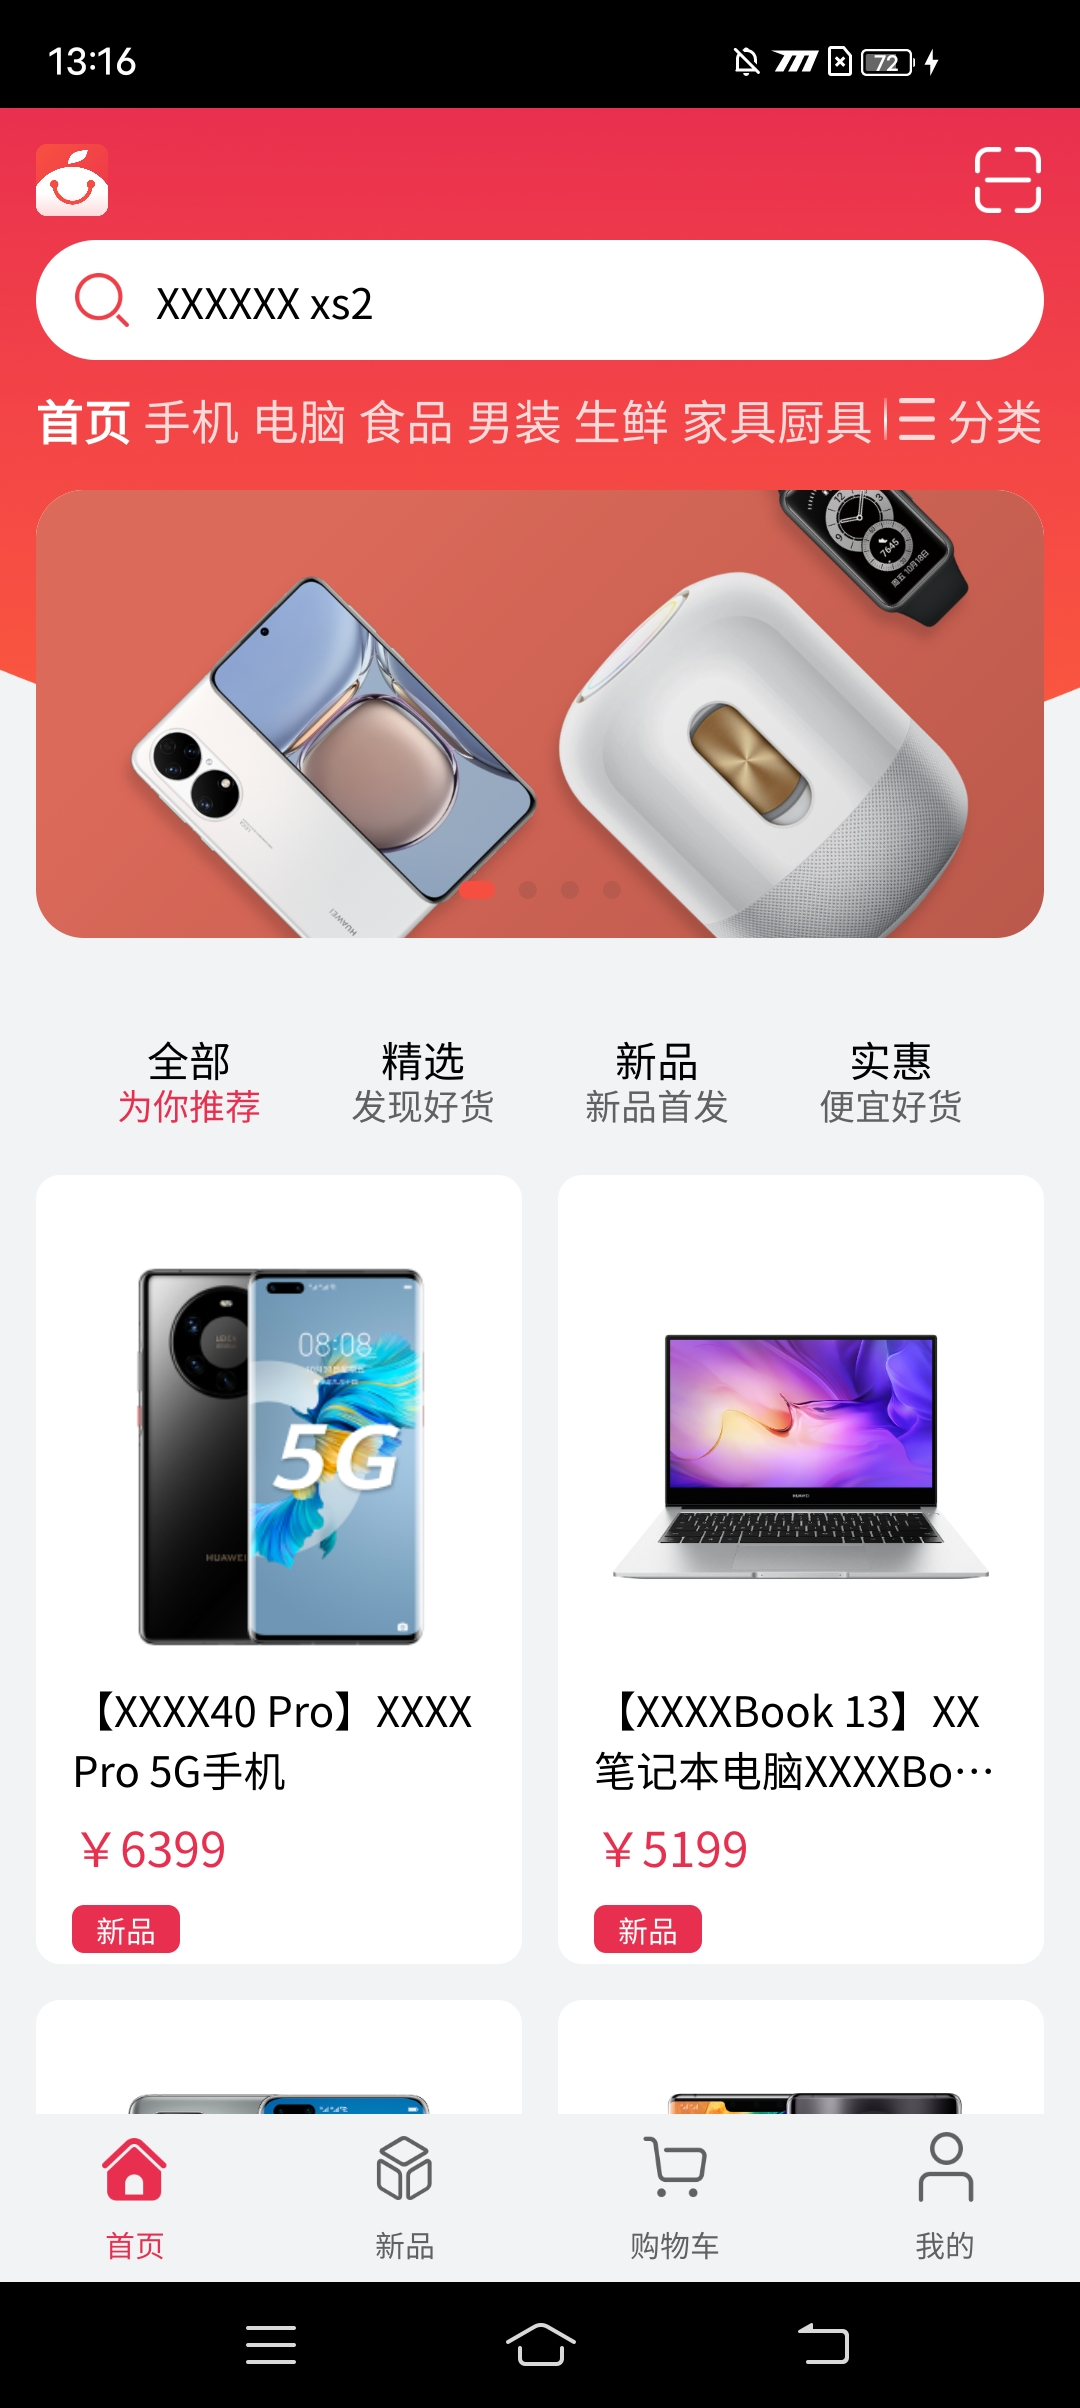
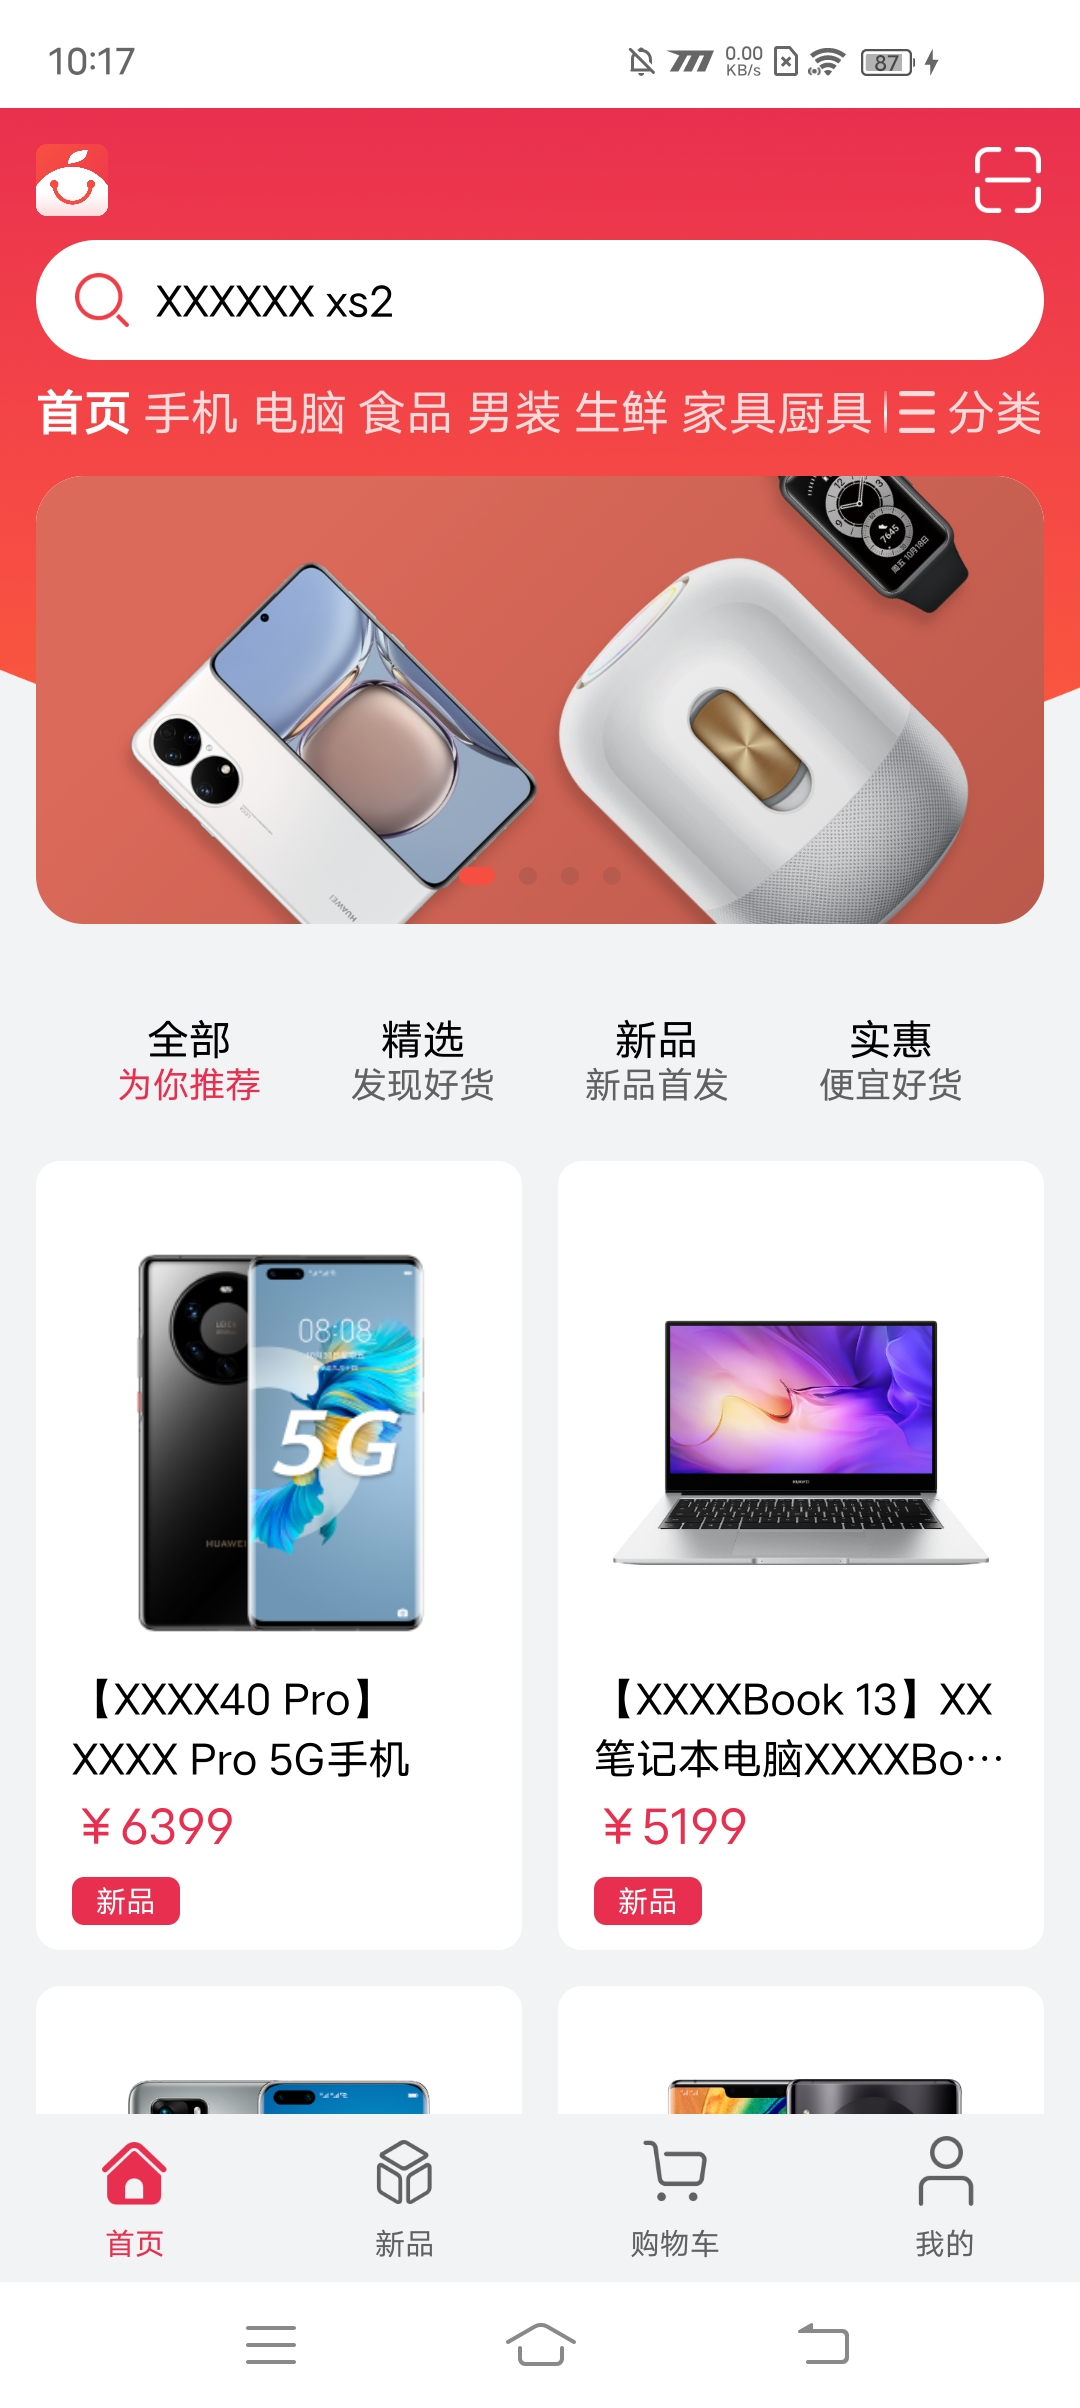
fix image

diff --git a/CodeLab/HMOSWorld/.arkui-x/android/app/src/main/java/com/huawei/hmos/world/ArkuixEntryAbilityActivity.java b/CodeLab/HMOSWorld/.arkui-x/android/app/src/main/java/com/huawei/hmos/world/ArkuixEntryAbilityActivity.java
@@ -20,6 +20,8 @@ import android.content.Context;
 import android.content.pm.PackageManager;
 import android.os.Bundle;
 import android.util.Log;
+import android.view.View;
+import android.view.Window;
 
 import androidx.core.app.ActivityCompat;
 import androidx.core.content.ContextCompat;
@@ -54,6 +56,11 @@ public class ArkuixEntryAbilityActivity extends StageActivity {
     protected void onCreate(Bundle savedInstanceState) {
         Log.i(TAG, "onCreate called");
         initBridgeObject();
+        Window window = getWindow();
+        View view = window.getDecorView();
+        int vis = view.getSystemUiVisibility();
+        vis |= View.SYSTEM_UI_FLAG_LIGHT_STATUS_BAR;
+        view.setSystemUiVisibility(vis);
         setInstanceName("com.huawei.hmos.world:arkuix:EntryAbility:");
         if (ContextCompat.checkSelfPermission(this,
                 Manifest.permission.READ_EXTERNAL_STORAGE) != PackageManager.PERMISSION_GRANTED) {

diff --git a/CodeLab/OxHornCampus/.arkui-x/android/app/src/main/java/com/example/oxhorncampus/ArkuixEntryAbilityActivity.java b/CodeLab/OxHornCampus/.arkui-x/android/app/src/main/java/com/example/oxhorncampus/ArkuixEntryAbilityActivity.java
@@ -17,6 +17,8 @@ package com.example.oxhorncampus;
 
 import android.os.Bundle;
 import android.util.Log;
+import android.view.View;
+import android.view.Window;
 
 import ohos.stage.ability.adapter.StageActivity;
 
@@ -30,7 +32,11 @@ public class ArkuixEntryAbilityActivity extends StageActivity {
     @Override
     protected void onCreate(Bundle savedInstanceState) {
         Log.e("HiHelloWorld", "ArkuixEntryAbilityActivity");
-
+        Window window = getWindow();
+        View view = window.getDecorView();
+        int vis = view.getSystemUiVisibility();
+        vis |= View.SYSTEM_UI_FLAG_LIGHT_STATUS_BAR;
+        view.setSystemUiVisibility(vis);
         setInstanceName("com.example.oxhorncampus:arkuix:EntryAbility:");
         super.onCreate(savedInstanceState);
     }

diff --git a/CodeLab/MultiShopping/.arkui-x/android/app/src/main/java/com/example/multishopping/PhoneEntryAbilityActivity.java b/CodeLab/MultiShopping/.arkui-x/android/app/src/main/java/com/example/multishopping/PhoneEntryAbilityActivity.java
@@ -17,6 +17,8 @@ package com.example.multishopping;
 
 import android.os.Bundle;
 import android.util.Log;
+import android.view.View;
+import android.view.Window;
 
 import ohos.stage.ability.adapter.StageActivity;
 
@@ -32,6 +34,11 @@ public class PhoneEntryAbilityActivity extends StageActivity {
     @Override
     protected void onCreate(Bundle savedInstanceState) {
         Log.i(LOG_TAG, "PhoneEntryAbilityActivity onCreate");
+        Window window = getWindow();
+        View view = window.getDecorView();
+        int vis = view.getSystemUiVisibility();
+        vis |= View.SYSTEM_UI_FLAG_LIGHT_STATUS_BAR;
+        view.setSystemUiVisibility(vis);
         setInstanceName("com.example.multishopping:phone:EntryAbility:");
         super.onCreate(savedInstanceState);
     }

diff --git a/CodeLab/MusicHome/.arkui-x/android/app/src/main/java/com/huawei/music/musichome/PhoneEntryAbilityActivity.java b/CodeLab/MusicHome/.arkui-x/android/app/src/main/java/com/huawei/music/musichome/PhoneEntryAbilityActivity.java
@@ -16,6 +16,8 @@
 package com.huawei.music.musichome;
 
 import android.os.Bundle;
+import android.view.View;
+import android.view.Window;
 
 import ohos.stage.ability.adapter.StageActivity;
 
@@ -28,6 +30,11 @@ import ohos.stage.ability.adapter.StageActivity;
 public class PhoneEntryAbilityActivity extends StageActivity {
     @Override
     protected void onCreate(Bundle savedInstanceState) {
+        Window window = getWindow();
+        View view = window.getDecorView();
+        int vis = view.getSystemUiVisibility();
+        vis |= View.SYSTEM_UI_FLAG_LIGHT_STATUS_BAR;
+        view.setSystemUiVisibility(vis);
         setInstanceName("com.huawei.music.musichome:phone:EntryAbility:");
         super.onCreate(savedInstanceState);
     }

diff --git a/CodeLab/HMOSWorld/.arkui-x/ios/app/AppDelegate.m b/CodeLab/HMOSWorld/.arkui-x/ios/app/AppDelegate.m
@@ -99,15 +99,7 @@
     self.window.backgroundColor = [UIColor whiteColor];
     [self.window makeKeyAndVisible];
     UINavigationController *navi = [[UINavigationController alloc]initWithRootViewController:viewController];
-    [self setNaviAppearance:navi];
+    navi.navigationBarHidden = YES;
     self.window.rootViewController = navi;
-}
-
-- (void)setNaviAppearance:(UINavigationController *)navi {
-    UINavigationBarAppearance *appearance = [UINavigationBarAppearance new];
-    [appearance configureWithOpaqueBackground];
-    appearance.backgroundColor = UIColor.whiteColor;
-    navi.navigationBar.standardAppearance = appearance;
-    navi.navigationBar.scrollEdgeAppearance = navi.navigationBar.standardAppearance;
 }
 @end

diff --git a/CodeLab/MultiShopping/.arkui-x/ios/app/PhoneEntryAbilityViewController.m b/CodeLab/MultiShopping/.arkui-x/ios/app/PhoneEntryAbilityViewController.m
@@ -33,4 +33,18 @@
     self.edgesForExtendedLayout = UIRectEdgeNone;
     self.extendedLayoutIncludesOpaqueBars = YES;
 }
+
+- (void)viewDidAppear:(BOOL)animated{
+    CGFloat statusBarHeight = 20;
+    if (@available(iOS 11.0, *)) {
+        UIEdgeInsets insets = self.view.safeAreaInsets;
+        statusBarHeight = insets.top;
+    } else {
+        if ([self respondsToSelector:@selector(topLayoutGuide)]) {
+            statusBarHeight = self.topLayoutGuide.length;
+        }
+    }
+    self.view.frame = CGRectMake(0, statusBarHeight,
+        CGRectGetWidth(self.view.frame), CGRectGetHeight(self.view.frame) - statusBarHeight);
+}
 @end

diff --git a/CodeLab/MusicHome/.arkui-x/ios/app/PhoneEntryAbilityViewController.m b/CodeLab/MusicHome/.arkui-x/ios/app/PhoneEntryAbilityViewController.m
@@ -33,4 +33,18 @@
     self.edgesForExtendedLayout = UIRectEdgeNone;
     self.extendedLayoutIncludesOpaqueBars = YES;
 }
+
+- (void)viewDidAppear:(BOOL)animated{
+    CGFloat statusBarHeight = 20;
+    if (@available(iOS 11.0, *)) {
+        UIEdgeInsets insets = self.view.safeAreaInsets;
+        statusBarHeight = insets.top;
+    } else {
+        if ([self respondsToSelector:@selector(topLayoutGuide)]) {
+            statusBarHeight = self.topLayoutGuide.length;
+        }
+    }
+    self.view.frame = CGRectMake(0, statusBarHeight,
+        CGRectGetWidth(self.view.frame), CGRectGetHeight(self.view.frame) - statusBarHeight);
+}
 @end

diff --git a/CodeLab/OxHornCampus/.arkui-x/ios/app/ArkuixEntryAbilityViewController.m b/CodeLab/OxHornCampus/.arkui-x/ios/app/ArkuixEntryAbilityViewController.m
@@ -33,4 +33,18 @@
     self.edgesForExtendedLayout = UIRectEdgeNone;
     self.extendedLayoutIncludesOpaqueBars = YES;
 }
+
+- (void)viewDidAppear:(BOOL)animated{
+    CGFloat statusBarHeight = 20;
+    if (@available(iOS 11.0, *)) {
+        UIEdgeInsets insets = self.view.safeAreaInsets;
+        statusBarHeight = insets.top;
+    } else {
+        if ([self respondsToSelector:@selector(topLayoutGuide)]) {
+            statusBarHeight = self.topLayoutGuide.length;
+        }
+    }
+    self.view.frame = CGRectMake(0, statusBarHeight,
+        CGRectGetWidth(self.view.frame), CGRectGetHeight(self.view.frame) - statusBarHeight);
+}
 @end

diff --git a/CodeLab/HMOSWorld/.arkui-x/ios/app/ArkuixEntryAbilityViewController.m b/CodeLab/HMOSWorld/.arkui-x/ios/app/ArkuixEntryAbilityViewController.m
@@ -55,4 +55,17 @@
     self.extendedLayoutIncludesOpaqueBars = YES;
 }
 
+- (void)viewDidAppear:(BOOL)animated{
+    CGFloat statusBarHeight = 20;
+    if (@available(iOS 11.0, *)) {
+        UIEdgeInsets insets = self.view.safeAreaInsets;
+        statusBarHeight = insets.top;
+    } else {
+        if ([self respondsToSelector:@selector(topLayoutGuide)]) {
+            statusBarHeight = self.topLayoutGuide.length;
+        }
+    }
+    self.view.frame = CGRectMake(0, statusBarHeight,
+        CGRectGetWidth(self.view.frame), CGRectGetHeight(self.view.frame) - statusBarHeight);
+}
 @end

diff --git a/CodeLab/MusicHome/.arkui-x/ios/app/AppDelegate.m b/CodeLab/MusicHome/.arkui-x/ios/app/AppDelegate.m
@@ -99,6 +99,7 @@
     self.window.backgroundColor = [UIColor whiteColor];
     [self.window makeKeyAndVisible];
     UINavigationController *navi = [[UINavigationController alloc]initWithRootViewController:viewController];
+    navi.navigationBarHidden = YES;
     self.window.rootViewController = navi;
 }
 @end

diff --git a/CodeLab/OxHornCampus/.arkui-x/ios/app/AppDelegate.m b/CodeLab/OxHornCampus/.arkui-x/ios/app/AppDelegate.m
@@ -99,6 +99,7 @@
     self.window.backgroundColor = [UIColor whiteColor];
     [self.window makeKeyAndVisible];
     UINavigationController *navi = [[UINavigationController alloc]initWithRootViewController:viewController];
+    navi.navigationBarHidden = YES;
     self.window.rootViewController = navi;
 }
 @end

diff --git a/CodeLab/MultiShopping/.arkui-x/ios/app/AppDelegate.m b/CodeLab/MultiShopping/.arkui-x/ios/app/AppDelegate.m
@@ -99,6 +99,7 @@
     self.window.backgroundColor = [UIColor whiteColor];
     [self.window makeKeyAndVisible];
     UINavigationController *navi = [[UINavigationController alloc]initWithRootViewController:viewController];
+    navi.navigationBarHidden = YES;
     self.window.rootViewController = navi;
 }
 
